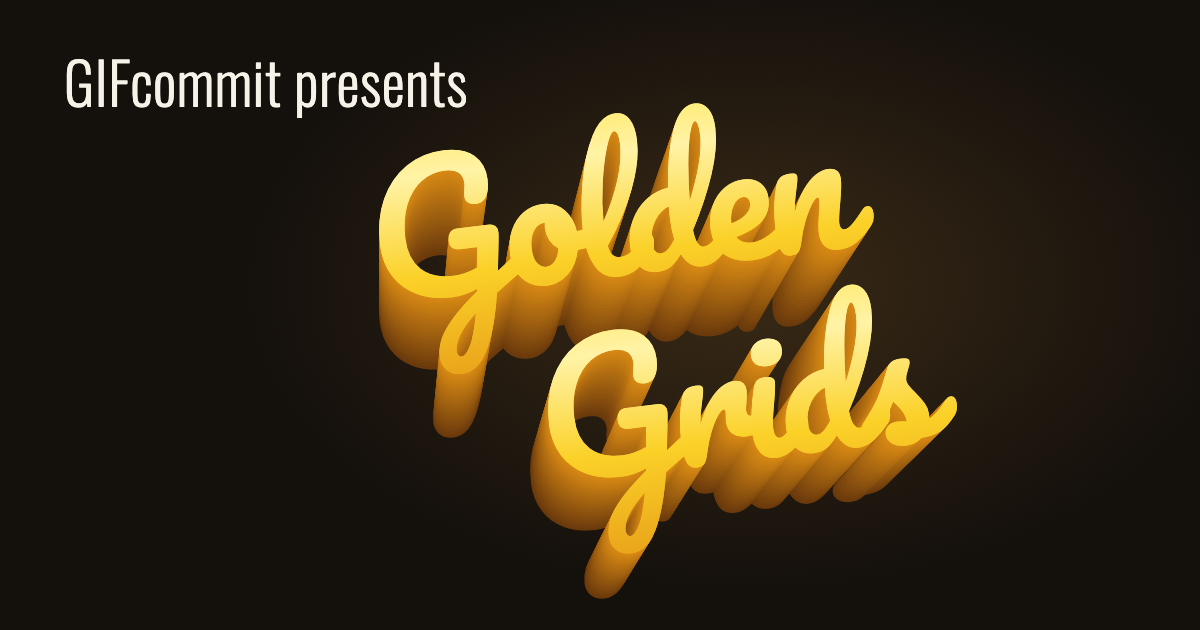
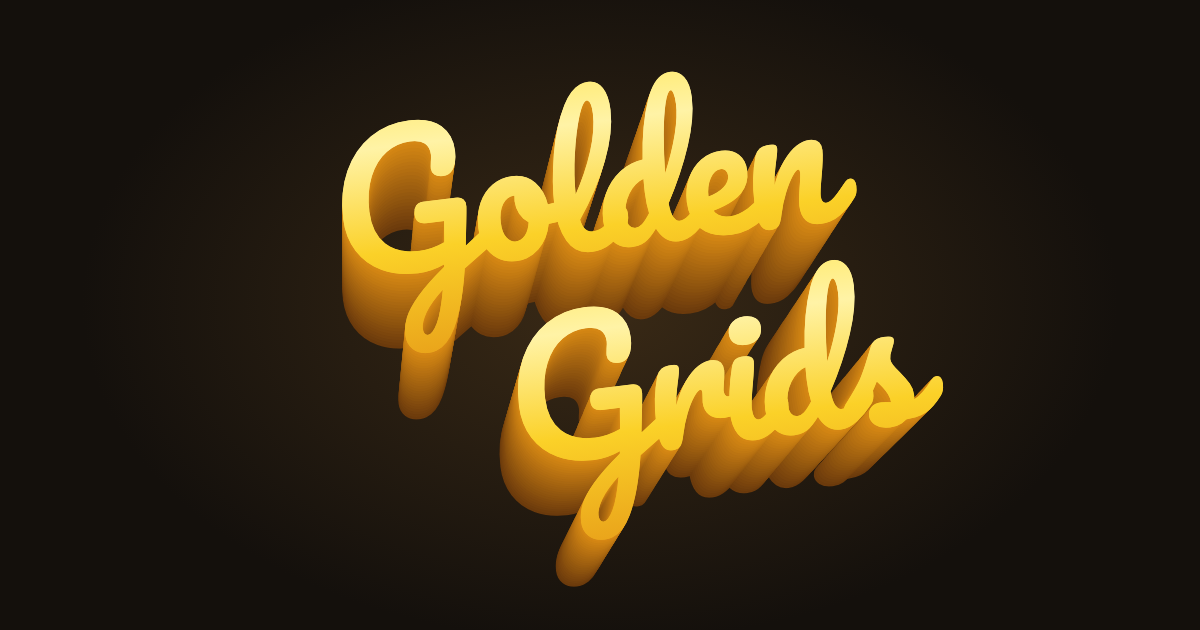
feat: show the title alone, centred, on the share image
"GIFcommit presents" comes off the share image and "Golden Grids" is
centred in the frame, set a little right of and above the middle to balance
the depth that falls down and to its left.

Closes #38

Changed region(s): [[0.0308, 0.0905, 0.8017, 0.9651]]

diff --git a/scripts/brand/art.html b/scripts/brand/art.html
@@ -4,20 +4,19 @@
   cell draws its name: Pacifico set tight, lemon to gold from top to bottom,
   with depth that shrinks toward a point below and to the left. `make.mjs`
   opens this page and photographs it. `?art=icon` draws GG on a square;
-  `?art=share` draws the first cell's composition at 1200 by 630.
+  `?art=share` draws the name alone, centred, at 1200 by 630.
 -->
 <html lang="en">
   <head>
     <meta charset="utf-8" />
-    <link rel="stylesheet" href="https://fonts.googleapis.com/css2?family=Oswald:wght@300&family=Pacifico&display=block" />
+    <link rel="stylesheet" href="https://fonts.googleapis.com/css2?family=Pacifico&display=block" />
     <style>
       html, body { margin: 0; background: #14100c; }
       #stage { position: relative; overflow: hidden; background: #14100c; }
       svg { position: absolute; overflow: visible; }
       text { font-family: "Pacifico"; letter-spacing: -0.035em; }
-      .presents { position: absolute; margin: 0; color: #f7f2e8; font: 300 58px/1 "Oswald"; letter-spacing: 0.01em; }
       /* A soft light behind the name, where the video's picture would be. */
-      .glow { position: absolute; inset: 0; background: radial-gradient(60% 70% at 62% 45%, #3a2a16 0%, #14100c 70%); }
+      .glow { position: absolute; inset: 0; background: radial-gradient(60% 75% at 50% 48%, #3a2a16 0%, #14100c 72%); }
     </style>
   </head>
   <body>
@@ -62,7 +61,7 @@
 
       const art = new URLSearchParams(location.search).get("art");
       const stage = document.getElementById("stage");
-      document.fonts.load('100px "Pacifico"').then(() => document.fonts.load('300 58px "Oswald"')).then(() => {
+      document.fonts.load('100px "Pacifico"').then(() => {
         /** Size a lockup to fit a box of the stage and centre it there, nudged to leave room for its depth. */
         const fit = (svg, ratio, box, nudge) => {
           const width = Math.min(box.width, box.height / ratio);
@@ -76,10 +75,12 @@
           fit(svg, ratio, { left: 56, top: 40, width: 400, height: 400 }, { x: 14, y: -34 });
         } else {
           stage.style.cssText += "width:1200px;height:630px";
-          stage.insertAdjacentHTML("beforeend", '<div class="glow"></div><p class="presents" style="left:64px;top:52px">GIFcommit presents</p>');
+          stage.insertAdjacentHTML("beforeend", '<div class="glow"></div>');
           const svg = el("svg", {}, stage);
           const ratio = lockup(svg, ["Golden", "Grids"], { indent: [0, 0.85], leading: 0.66, copies: 26, step: 0.004, vanish: { x: -0.15, y: 1.8 } });
-          fit(svg, ratio, { left: 190, top: 70, width: 860, height: 500 }, { x: 40, y: -22 });
+          // The name alone, centred. Its depth falls down and to the left, so the
+          // letters sit a little right of and above the middle to balance it.
+          fit(svg, ratio, { left: 120, top: 40, width: 960, height: 520 }, { x: 34, y: -26 });
         }
         document.body.dataset.ready = "yes";
       });

diff --git a/index.html b/index.html
@@ -23,7 +23,7 @@
     <meta property="og:image" content="https://gregoryedgerton.github.io/golden-grids-site/og.png" />
     <meta property="og:image:width" content="1200" />
     <meta property="og:image:height" content="630" />
-    <meta property="og:image:alt" content="GIFcommit presents Golden Grids, in gold script on black." />
+    <meta property="og:image:alt" content="Golden Grids, in gold script with depth, on black." />
     <meta name="twitter:card" content="summary_large_image" />
     <!-- GG, drawn as the title's name is. Raster, because share sheets and iOS do not read an SVG icon. -->
     <link rel="icon" type="image/png" sizes="32x32" href="%BASE_URL%favicon-32.png" />
